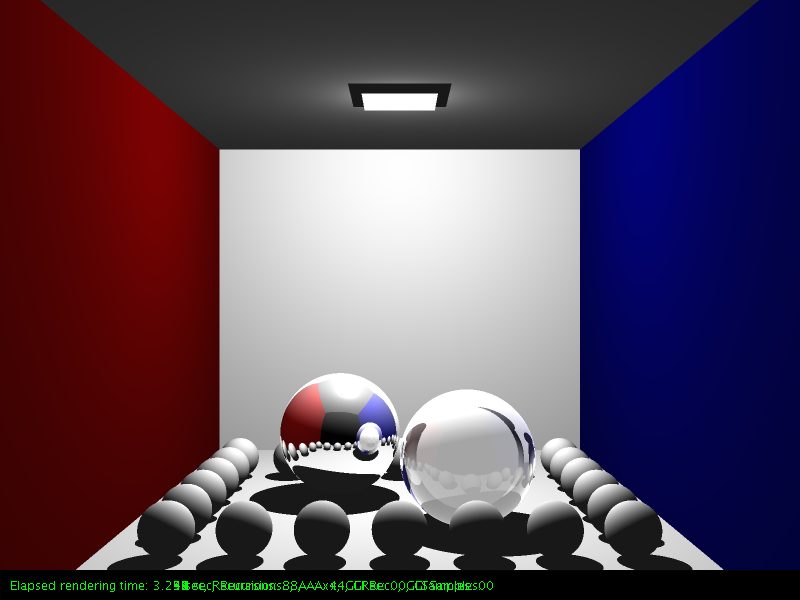
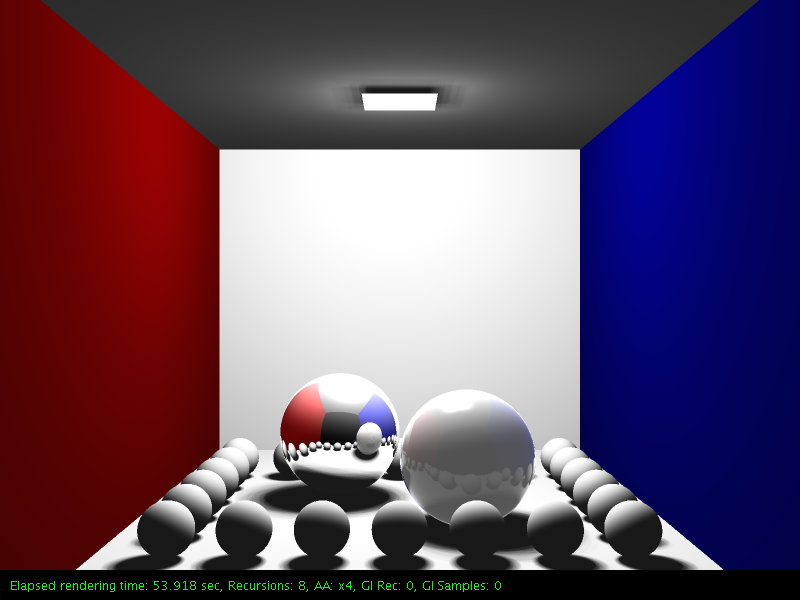
Best measurement of Rendering time

diff --git a/VCG_Raytracer/src/raytracer/Raytracer.java b/VCG_Raytracer/src/raytracer/Raytracer.java
@@ -51,6 +51,7 @@ public class Raytracer {
     public static final int MULTI_THREADING_MEDIUM = 4;
     public static final int MULTI_THREADING_HIGH = 8;
     public static final int MULTI_THREADING_INSANE = 16;
+    public static final int MULTI_THREADING_GODLIKE = 64;
 
     private static float GI_FACTOR = (float) (1f / Math.PI);
 
@@ -171,9 +172,6 @@ public class Raytracer {
     }
 
     private RgbColor sendPrimaryRay(Vec2 pixelPoint){
-        if(pixelPoint.equals(new Vec2(400.5f, 450f))){
-            Log.print(this, "out");
-        }
         Vec3 startPoint = mScene.getCamPos();
         Vec3 destinationDir = mScene.getCamPixelDirection(pixelPoint);
         Ray primaryRay = new Ray(startPoint, destinationDir, 1f);
@@ -220,7 +218,7 @@ public class Raytracer {
                 recursionCounter -= 1;
                 float transparency = intersection.getShape().getMaterial().getRefractivity();
                 RgbColor transmissionColor = this.traceRay(recursionCounter, giLevelCounter, intersection.calculateRefractionRay(), directLight, intersection).multScalar(transparency);
-                directLight = directLight.add( transmissionColor.multScalar(0.75f) );
+                directLight = directLight.add( transmissionColor.multScalar(0.5f) );
             }
             if ( mUseGI && intersection.getShape().getMaterial().isGiOn()){
                 // direct illumination + indirect illumination

diff --git a/VCG_Raytracer/src/Main.java b/VCG_Raytracer/src/Main.java
@@ -65,7 +65,7 @@ public class Main {
 
     static int RECURSIONS = 8;
     static int ANTI_ALIASING = Raytracer.ANTI_ALIASING_LOW; //Raytracer.ANTI_ALIASING_MEDIUM;
-    static boolean USE_SOFT_SHADOWS = false;
+    static boolean USE_SOFT_SHADOWS = true;
     static boolean USE_BLURRY_REF = false;
     static int BLURRY_LEVEL = 30;
 
@@ -101,7 +101,7 @@ public class Main {
     static boolean SHOW_PARAM_LABEL = true;
 
     static int BLOCK_SIZE = Raytracer.LARGE_BLOCK;
-    static int NUMBER_OF_THREADS = Raytracer.MULTI_THREADING_HIGH;
+    static int NUMBER_OF_THREADS = Raytracer.MULTI_THREADING_INSANE;
 
     // Initial method. This is where the show begins.
     public static void main(String[] args){
@@ -174,7 +174,7 @@ public class Main {
     private static void setupSpheres(Scene renderScene) {
         float sphereRadius = 1f;
         float smallSphereRadius = 0.6f;
-        float smallSphereRadius2 = 0.7f;
+        float smallSphereRadius2 = 0.8f;
 
         // Materials: AmbientMaterial Color, Diffuse Coeeff, Specular Coeff, Shininess, Material
         Material sphereMaterial1 = new PhongMaterial(RgbColor.DARK_GRAY, RgbColor.GRAY, RgbColor.WHITE, PhongMaterial.SHINY, Material.TINY_REFLECTION, Material.NO_TRANSMISSION, 1);

diff --git a/VCG_Raytracer/src/multithreading/MultiThreader.java b/VCG_Raytracer/src/multithreading/MultiThreader.java
@@ -34,7 +34,7 @@ public class MultiThreader{
 				mRenderBlockList.add(new RenderBlock(x, y, x  + mIntervalX, y + mIntervalY));
 			}
 		}
-
+		//Collections.shuffle(mRenderBlockList);
 		mSyncRenderBlockList = Collections.synchronizedList(mRenderBlockList);
 	}
 
